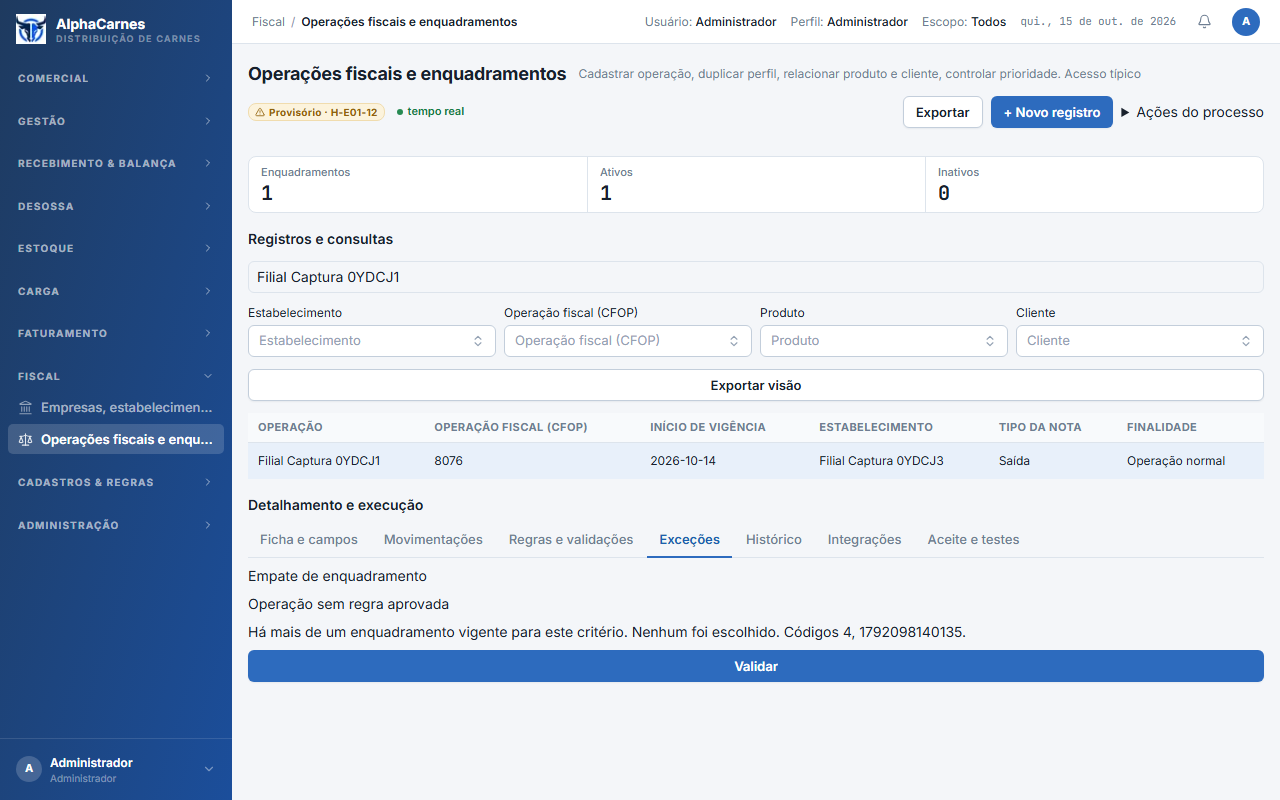
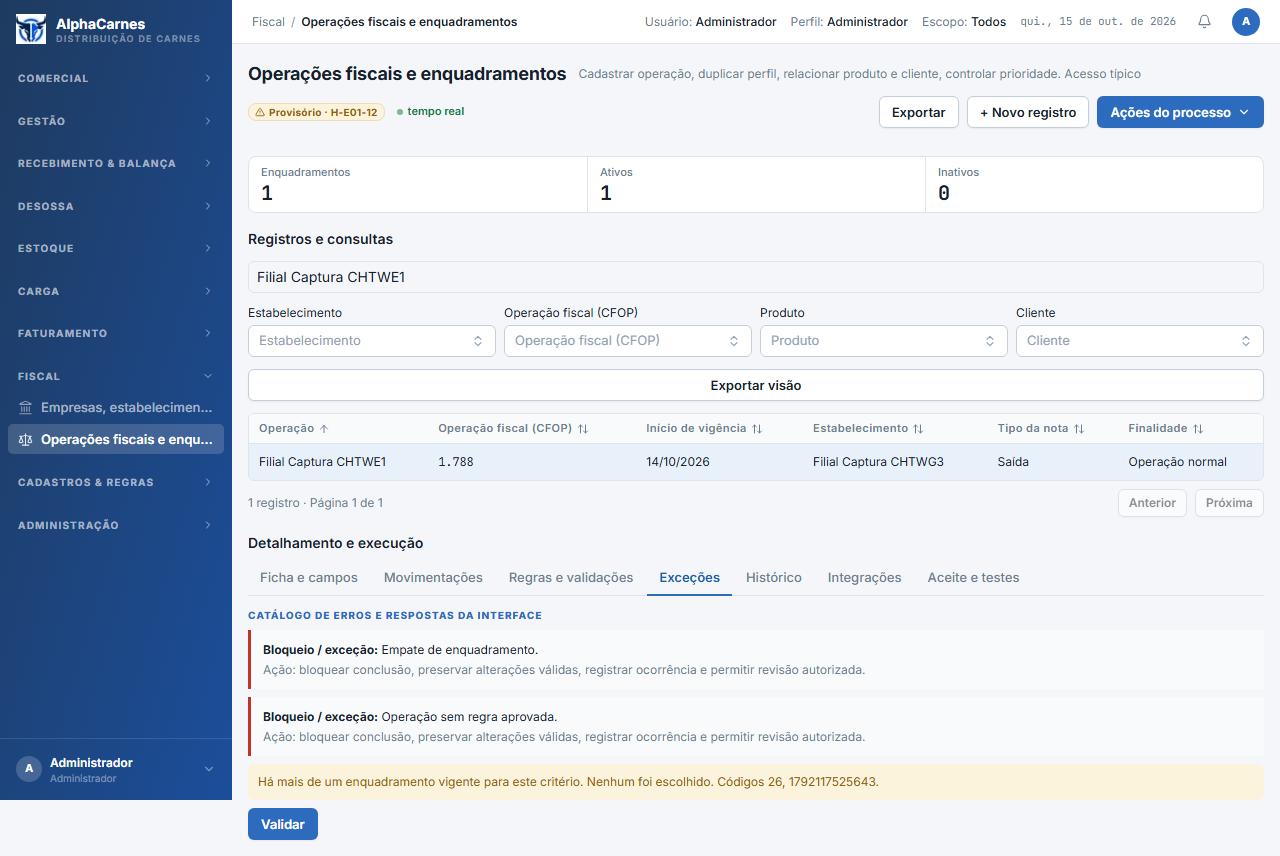
test(e01-t02): E2E de paginacao, ficha e dialogo de inativacao; regera evidencias
### Descrição Detalhada:
Spec com beforeAll de aquecimento como o da T01, passo com 21 linhas (paginador e ordenacao por Inicio de vigencia), passo da ficha (Historico focado, oito criterios de aceite, integracoes sem simulador, estabelecimento somente leitura, duas edicoes seguidas), CFOP/NCM/CEST com mascara e inativacao pelo dialogo em vez de window.prompt. Captura de evidencias acompanha as abas novas; app-*.png afetados regerados.

### Motivo da Mudança:
Prender os achados 1, 2, 4 e 6 em Playwright (Portao A r1, menor g).

### Impacto:
Somente testes e evidencias; helper criarEnquadramentosEmLote no seed.

diff --git a/app/frontend/e2e/e01-t02-enquadramentos.spec.ts b/app/frontend/e2e/e01-t02-enquadramentos.spec.ts
@@ -6,6 +6,7 @@ import { test, expect, type Browser, type Locator, type Page } from '@playwright
 import {
   criarBase,
   criarEnquadramento,
+  criarEnquadramentosEmLote,
   entrarNoFrontend,
   liberarCodigosDaJornada,
   loginApi,
@@ -159,6 +160,27 @@ test.describe('E01-T02 Operações fiscais e enquadramentos', () => {
   test.use({ actionTimeout: 15_000 });
   test.setTimeout(300_000);
 
+  // next dev frio compila cada rota na primeira visita (dezenas de segundos); aquece as rotas da
+  // jornada antes dos testes para que as asserções de tempo normal valham sem folga extra.
+  test.beforeAll(async ({ browser, playwright }, testInfo) => {
+    test.setTimeout(240_000);
+    const baseURL = String(testInfo.project.use.baseURL);
+    const request = await playwright.request.newContext();
+    const usuarios = await prepararUsuarios(request);
+    await request.dispose();
+    const context = await browser.newContext({ baseURL });
+    try {
+      await entrarNoFrontend(context, baseURL, usuarios.adminA);
+      const page = await context.newPage();
+      for (const rota of ['/gestao/dashboard', '/fiscal/enquadramentos']) {
+        await page.goto(rota, { timeout: 120_000 });
+        await page.waitForLoadState('networkidle', { timeout: 120_000 });
+      }
+    } finally {
+      await context.close();
+    }
+  });
+
   test('jornada: cadastro, duplicação, sobreposição e consulta sem alíquota', async ({ browser, request, baseURL }) => {
     liberarCodigosDaJornada();
     const usuarios = await prepararUsuarios(request);
@@ -185,9 +207,9 @@ test.describe('E01-T02 Operações fiscais e enquadramentos', () => {
     const drawer = page.getByRole('dialog', { name: 'Novo registro' });
     await expect(drawer.getByRole('button', { name: 'Salvar rascunho' })).toBeVisible();
     await cadastrarCodigo(page, drawer, 0, '5102', 'Venda de mercadoria');
-    await expect(drawer.locator('#enq-cfop')).toContainText('5102');
+    await expect(drawer.locator('#enq-cfop')).toContainText('5.102');
     await cadastrarCodigo(page, drawer, 1, '02013000', 'Carnes bovinas');
-    await expect(drawer.locator('#enq-ncm')).toContainText('02013000');
+    await expect(drawer.locator('#enq-ncm')).toContainText('0201.30.00');
 
     await escolherCombo(page, drawer, '#enq-estab', 'Buscar estabelecimento', base.estabelecimento.nome, new RegExp(base.estabelecimento.nome));
     await escolherCombo(
@@ -256,8 +278,11 @@ test.describe('E01-T02 Operações fiscais e enquadramentos', () => {
     await expect(duplicar).toBeHidden();
     await expect(linhas).toHaveCount(2);
 
-    page.once('dialog', (dialog) => dialog.accept('Inativação da primeira vigência no teste E2E.'));
     await page.getByRole('button', { name: 'Inativar', exact: true }).click();
+    const decisao = page.getByRole('dialog', { name: 'Inativar enquadramento' });
+    await decisao.getByLabel(/Justificativa/).fill('Inativação da primeira vigência no teste E2E.');
+    await decisao.getByRole('button', { name: 'Inativar', exact: true }).click();
+    await expect(decisao).toBeHidden();
     await page.getByRole('row', { name: new RegExp(hoje.br) }).click();
     await page.getByRole('tab', { name: 'Ficha e campos' }).click();
     await expect(valorDoCampo(page, 'Situação').filter({ hasText: 'Inativa' }).first()).toBeVisible();
@@ -344,6 +369,82 @@ test.describe('E01-T02 Operações fiscais e enquadramentos', () => {
       page.getByRole('button', { name: 'Duplicar', exact: true }),
       page.getByRole('dialog', { name: 'Duplicar perfil' }),
     );
+    await expectSemIdentificadoresTecnicos(page);
+  });
+
+  test('lista com mais de 20 linhas: paginação e ordenação no servidor', async ({ browser, request, baseURL }) => {
+    const usuarios = await prepararUsuarios(request);
+    const cookieA = await loginApi(request, usuarios.adminA);
+    const cookieB = await loginApi(request, usuarios.adminB);
+    const cenario: CenarioE01T02 = await criarEnquadramento(request, cookieA, cookieB, 'Paginacao');
+    const inicios = await criarEnquadramentosEmLote(request, cookieA, cenario, 20);
+    const page = await abrirComo(browser, baseURL!, usuarios.adminA);
+
+    await irParaEnquadramentos(page);
+    await filtrarPor(page, cenario.rotuloOperacao);
+    const paginacao = page.getByRole('navigation', { name: 'Paginação' });
+    await expect(paginacao).toContainText('21 registros · Página 1 de 2');
+    await expect(page.getByRole('row', { name: new RegExp(cenario.rotuloOperacao) })).toHaveCount(20);
+    await expect(paginacao.getByRole('button', { name: 'Anterior' })).toBeDisabled();
+    await paginacao.getByRole('button', { name: 'Próxima' }).click();
+    await expect(paginacao).toContainText('Página 2 de 2');
+    await expect(page.getByRole('row', { name: new RegExp(cenario.rotuloOperacao) })).toHaveCount(1);
+    await expect(paginacao.getByRole('button', { name: 'Próxima' })).toBeDisabled();
+
+    await page.getByRole('button', { name: 'Início de vigência', exact: true }).click();
+    await expect(paginacao).toContainText('Página 1 de 2');
+    const cabecalho = page.getByRole('columnheader', { name: 'Início de vigência' });
+    await expect(cabecalho).toHaveAttribute('aria-sort', 'ascending');
+    const primeira = page.getByRole('row', { name: new RegExp(cenario.rotuloOperacao) }).first();
+    await expect(primeira).toContainText('14/10/2026');
+    await page.getByRole('button', { name: 'Início de vigência', exact: true }).click();
+    await expect(cabecalho).toHaveAttribute('aria-sort', 'descending');
+    await expect(primeira).toContainText(brDeIso(inicios[inicios.length - 1]!));
+  });
+
+  test('ficha: histórico, aceite, integrações e estabelecimento somente leitura na edição', async ({ browser, request, baseURL }) => {
+    const usuarios = await prepararUsuarios(request);
+    const cookieA = await loginApi(request, usuarios.adminA);
+    const cookieB = await loginApi(request, usuarios.adminB);
+    const cenario: CenarioE01T02 = await criarEnquadramento(request, cookieA, cookieB, 'Ficha');
+    const page = await abrirComo(browser, baseURL!, usuarios.adminA);
+
+    await irParaEnquadramentos(page);
+    await filtrarPor(page, cenario.rotuloOperacao);
+    await page.getByRole('row', { name: new RegExp(cenario.rotuloOperacao) }).click();
+    await expect(valorDoCampo(page, 'Código')).toHaveText(/^[1-9][0-9]*$/);
+    await expect(valorDoCampo(page, 'Operação fiscal (CFOP)')).toContainText(/^[0-9]\.[0-9]{3}/);
+    await expect(valorDoCampo(page, 'Classificação fiscal (NCM)')).toContainText(/^[0-9]{4}\.[0-9]{2}\.[0-9]{2}/);
+    await expect(valorDoCampo(page, 'Substituição tributária (CEST)')).toContainText('17.087.00');
+
+    await page.getByRole('button', { name: 'Consultar histórico' }).click();
+    const abaHistorico = page.getByRole('tab', { name: 'Histórico' });
+    await expect(abaHistorico).toHaveAttribute('aria-selected', 'true');
+    await expect(abaHistorico).toBeFocused();
+    await expect(page.getByRole('tabpanel')).toContainText(/[0-9]{2}\/[0-9]{2}\/[0-9]{4} [0-9]{2}:[0-9]{2}/);
+
+    await page.getByRole('tab', { name: 'Aceite e testes' }).click();
+    await expect(page.getByRole('list', { name: 'Critérios de aceite' }).getByRole('listitem')).toHaveCount(8);
+    await expect(page.getByRole('checkbox')).toHaveCount(0);
+    await page.getByRole('tab', { name: 'Integrações' }).click();
+    await expect(page.getByRole('button', { name: 'Abrir simulador' })).toHaveCount(0);
+    await expect(page.getByRole('button', { name: 'Central de Integrações' })).toBeDisabled();
+
+    await page.getByRole('tab', { name: 'Ficha e campos' }).click();
+    await page.getByRole('button', { name: 'Editar versão' }).click();
+    const drawer = page.getByRole('dialog', { name: 'Editar versão' });
+    await expect(drawer.locator('#enq-estab')).toBeDisabled();
+    await drawer.getByLabel('Prioridade').fill('7');
+    await drawer.locator('#enq-motivo').fill('Ajuste de prioridade no teste E2E.');
+    await drawer.getByRole('button', { name: 'Salvar rascunho' }).click();
+    await expect(drawer).toBeHidden();
+    await expect(valorDoCampo(page, 'Prioridade')).toContainText('7');
+    await page.getByRole('button', { name: 'Editar versão' }).click();
+    await drawer.getByLabel('Prioridade').fill('8');
+    await drawer.locator('#enq-motivo').fill('Segundo ajuste imediato no teste E2E.');
+    await drawer.getByRole('button', { name: 'Salvar rascunho' }).click();
+    await expect(drawer).toBeHidden();
+    await expect(valorDoCampo(page, 'Prioridade')).toContainText('8');
     await expectSemIdentificadoresTecnicos(page);
   });
 });

diff --git a/app/frontend/e2e/capture-e01-t02-evidencias.spec.ts b/app/frontend/e2e/capture-e01-t02-evidencias.spec.ts
@@ -67,12 +67,12 @@ const ABAS_PROTOTIPO: Array<{ aba: string; arquivo: string; chave: string }> = [
 ];
 
 const ABAS_APP: Array<{ aba: string; arquivo: string; chave: string }> = [
-  { aba: 'Movimentações', arquivo: 'app-movimentacoes.png', chave: 'Preparação → Verificação → Autorização → Conclusão' },
+  { aba: 'Movimentações', arquivo: 'app-movimentacoes.png', chave: 'Etapas e evidências de negócio' },
   { aba: 'Regras e validações', arquivo: 'app-regras.png', chave: 'Esta tela não calcula tributo' },
   { aba: 'Exceções', arquivo: 'app-excecoes.png', chave: 'Empate de enquadramento' },
   { aba: 'Histórico', arquivo: 'app-historico.png', chave: 'Seed E2E E01-T02' },
-  { aba: 'Integrações', arquivo: 'app-integracoes.png', chave: 'E01 — regras e simulação ficam nas telas seguintes.' },
-  { aba: 'Aceite e testes', arquivo: 'app-aceite.png', chave: 'Checkbox não é aceite. Os critérios abaixo são somente leitura.' },
+  { aba: 'Integrações', arquivo: 'app-integracoes.png', chave: 'Integração fiscal' },
+  { aba: 'Aceite e testes', arquivo: 'app-aceite.png', chave: 'Matriz de homologação funcional e técnica' },
 ];
 
 async function capturar(page: Page, arquivo: string, chave: Locator): Promise<void> {
@@ -203,8 +203,11 @@ test.describe('E01-T02 evidências app × protótipo', () => {
     await filtrarPor(page, ausente.rotuloOperacao);
     await page.getByRole('row', { name: new RegExp(ausente.rotuloOperacao) }).click();
     await abrirAba(page, 'Movimentações', 'Inativar');
-    page.once('dialog', (dialog) => dialog.accept('Evidência visual da inativação.'));
     await page.getByRole('button', { name: 'Inativar', exact: true }).click();
+    const decisao = page.getByRole('dialog', { name: 'Inativar enquadramento' });
+    await decisao.getByLabel(/Justificativa/).fill('Evidência visual da inativação.');
+    await decisao.getByRole('button', { name: 'Inativar', exact: true }).click();
+    await expect(decisao).toBeHidden();
     await page.getByRole('row', { name: new RegExp(ausente.rotuloOperacao) }).click();
     await abrirAba(page, 'Exceções', 'Operação sem regra aprovada');
     await page.getByRole('button', { name: 'Validar', exact: true }).click();

diff --git a/app/frontend/e2e/helpers/e01-t02-seed.ts b/app/frontend/e2e/helpers/e01-t02-seed.ts
@@ -182,6 +182,41 @@ export async function criarEnquadramento(
   };
 }
 
+/**
+ * Mais enquadramentos ativos da mesma chave do cenário, cada um com vigência própria (sem sobreposição).
+ * Devolve as datas de início (ISO), em ordem crescente.
+ */
+export async function criarEnquadramentosEmLote(
+  request: APIRequestContext,
+  cookie: string,
+  cenario: CenarioE01T02,
+  quantidade: number,
+): Promise<string[]> {
+  const inicios: string[] = [];
+  for (let i = 0; i < quantidade; i += 1) {
+    const vigenciaInicio = dataFutura(2000 + i * 2);
+    await api(request, cookie, 'POST', '/fiscal/enquadramentos', {
+      estabelecimentoId: cenario.estabelecimento.id,
+      operacaoId: cenario.operacaoId,
+      tpNf: '1',
+      finNfe: '1',
+      cfopId: cenario.cfopId,
+      abrangencia: 'INTERNA',
+      tipoProduto: 'REVENDA',
+      produtoId: cenario.produtoId,
+      ncmId: cenario.ncmId,
+      cest: '1708700',
+      clienteId: cenario.clienteId,
+      vigenciaInicio,
+      vigenciaFim: dataFutura(2000 + i * 2 + 1),
+      prioridade: 1,
+      justificativa: MOTIVO,
+    });
+    inicios.push(vigenciaInicio);
+  }
+  return inicios;
+}
+
 /** Nome do banco vindo de DATABASE_URL; recusa banco sem sufixo de teste. */
 export function bancoDeTeste(): string {
   const url = process.env.DATABASE_URL;
